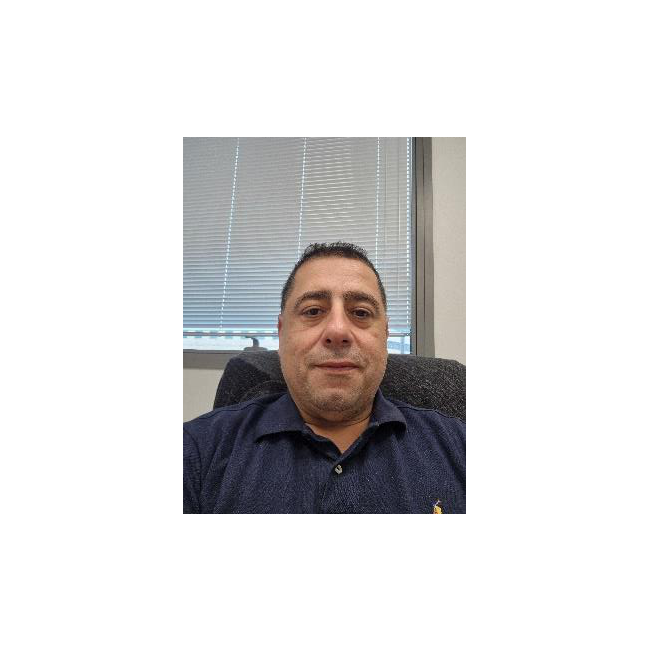
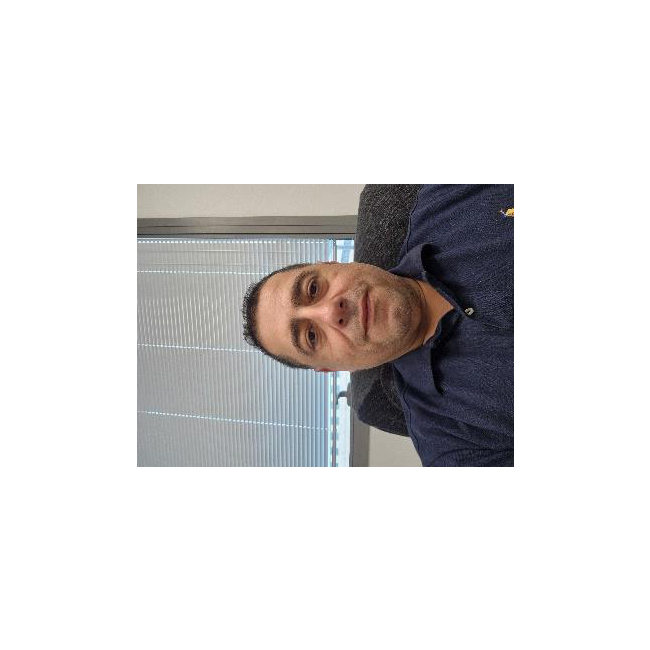
top navbar updated

Changed region(s): [[0.1846, 0.1846, 0.8, 0.8]]

diff --git a/script.js b/script.js
@@ -165,7 +165,6 @@
     var c = SC[p.sector] || { bg:"#334155", border:"#64748b", light:"#f1f5f9" };
     var img = PHOTO_DIR + p.key + '.png';
     var photoStyle = 'object-fit:cover;object-position:center center;';
-    if (p.key === 'Yehuda_Arie_Halali') photoStyle += 'transform:rotate(-90deg);';
     var hasPhotoPadding = (p.key === 'Roei_Rafael_Babai' || p.key === 'Avital_Simcha_Shlezinger');
     var needsPhotoMargin = (p.key === 'Ravit_Nakar_El-Ezra' || p.key === 'Adaya_Nissenholtz' || p.key === 'Lior_Zohar');
     var initial = p.nameEn.charAt(0);
@@ -177,7 +176,7 @@
     var roleHe = escapeHtml(p.roleHe);
     var email = escapeHtml(p.email);
     var photoImgStyle = photoStyle;
-    if (hasPhotoPadding) photoImgStyle = 'object-fit:contain;object-position:center center;' + (p.key === 'Yehuda_Arie_Halali' ? 'transform:rotate(-90deg);' : '');
+    if (hasPhotoPadding) photoImgStyle = 'object-fit:contain;object-position:center center;';
     var photoHtml = img
       ? (hasPhotoPadding ? '<div style="width:100%;height:100%;padding:4px;box-sizing:border-box;display:flex;align-items:center;justify-content:center;background:white;border:1px solid #bfdbfe;border-radius:8px"><img src="'+img+'" alt="'+nameEn+'" style="width:100%;height:100%;'+photoImgStyle+'" /></div>' : (needsPhotoMargin ? '<div style="width:100%;height:100%;padding:12px 0;box-sizing:border-box;display:flex;align-items:center;justify-content:center;background:#f8fafc"><img src="'+img+'" alt="'+nameEn+'" style="width:100%;height:100%;'+photoStyle+'" /></div>' : '<img src="'+img+'" alt="'+nameEn+'" style="width:100%;height:100%;'+photoStyle+'" />'))
       : '<div style="width:100%;height:100%;display:flex;align-items:center;justify-content:center;color:white;font-size:72px;font-weight:800;background:'+c.bg+'">'+initial+'</div>';

diff --git a/index.html b/index.html
@@ -24,9 +24,11 @@
       content: ''; position: absolute; left: 0; right: 0; bottom: 0; height: 3px;
       background: var(--nav-purple);
     }
-    nav .logo { display: flex; align-items: center; gap: 12px; }
-    nav .logo svg { height: 48px; }
-    nav .nav-buttons { display: flex; gap: 8px; margin-left: auto; }
+    nav .logo { display: flex; align-items: center; flex: 1; }
+    nav .logo img { height: 48px; object-fit: contain; }
+    nav .nav-buttons { display: flex; gap: 8px; justify-content: center; flex: 2; }
+    nav .logo-right { display: flex; align-items: center; justify-content: flex-end; flex: 1; }
+    nav .logo-right img { height: 48px; object-fit: contain; }
     nav button {
       background: transparent; color: rgba(255,255,255,0.9); border: none;
       border-radius: 999px; padding: 10px 24px; font-weight: 500; font-size: 15px;
@@ -40,12 +42,13 @@
 </head>
 <body>
   <nav>
-    <div class="logo"><img src="og-image.png" alt="FutureTime" style="height:48px;display:block;object-fit:contain" /></div>
+    <div class="logo"><img src="og-image.png" alt="FutureTime" /></div>
     <div class="nav-buttons">
       <button data-page="about" class="nav-btn">About</button>
       <button data-page="participants" class="nav-btn">Participants</button>
       <button data-page="team" class="nav-btn">Meet the Team</button>
     </div>
+    <div class="logo-right"><img src="images/navbar-logo.png" alt="FutureTime" /></div>
   </nav>
 
   <main id="app">
